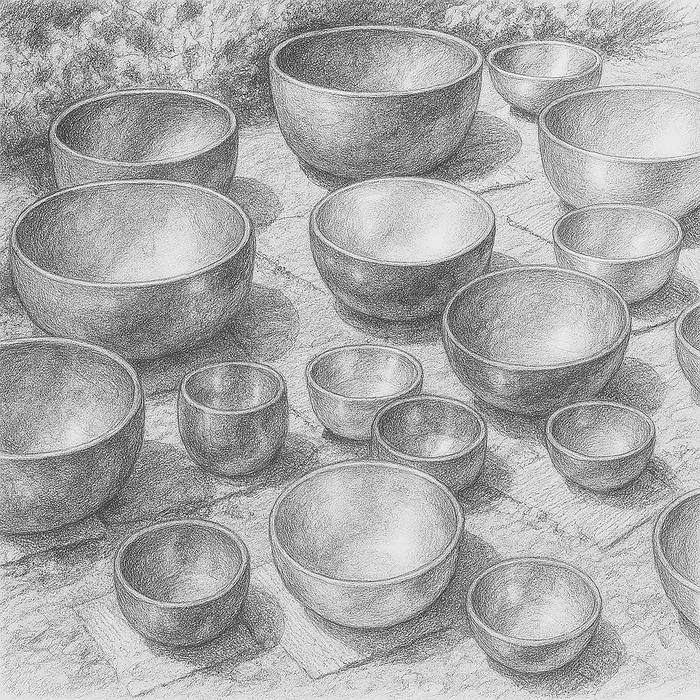
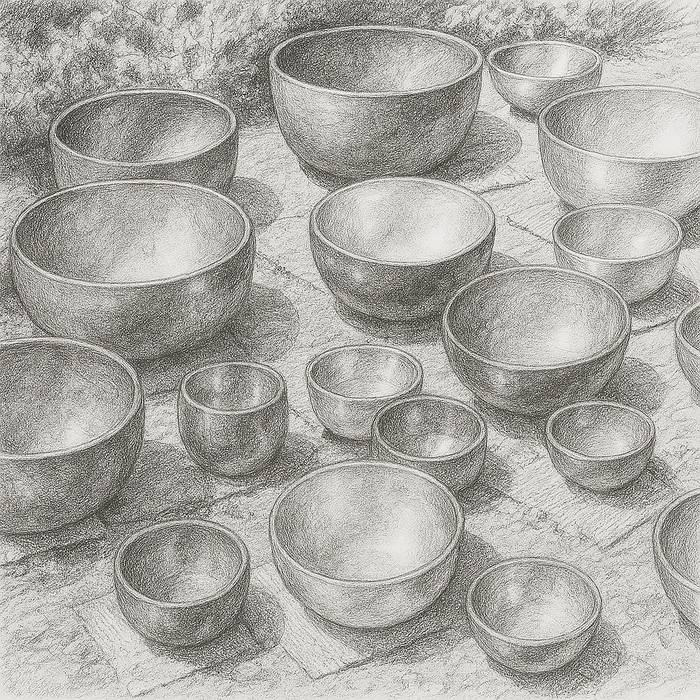
dfd

diff --git a/shop.html b/shop.html
@@ -205,7 +205,7 @@
           </div>
         </div>
         <div class="img-rounded fade-up" style="animation-delay:.15s;">
-          <img src="assets/images/bowls/bowls-collection.jpg" alt="Hand-hammered Himalayan singing bowls from Vivek's collection" class="img-tall" width="900" height="1200" />
+          <img src="assets/images/bowls/bowls-sketch-tall.jpg" alt="Sketch of Himalayan singing bowls" class="img-tall" width="690" height="920" />
         </div>
       </div>
     </div>
